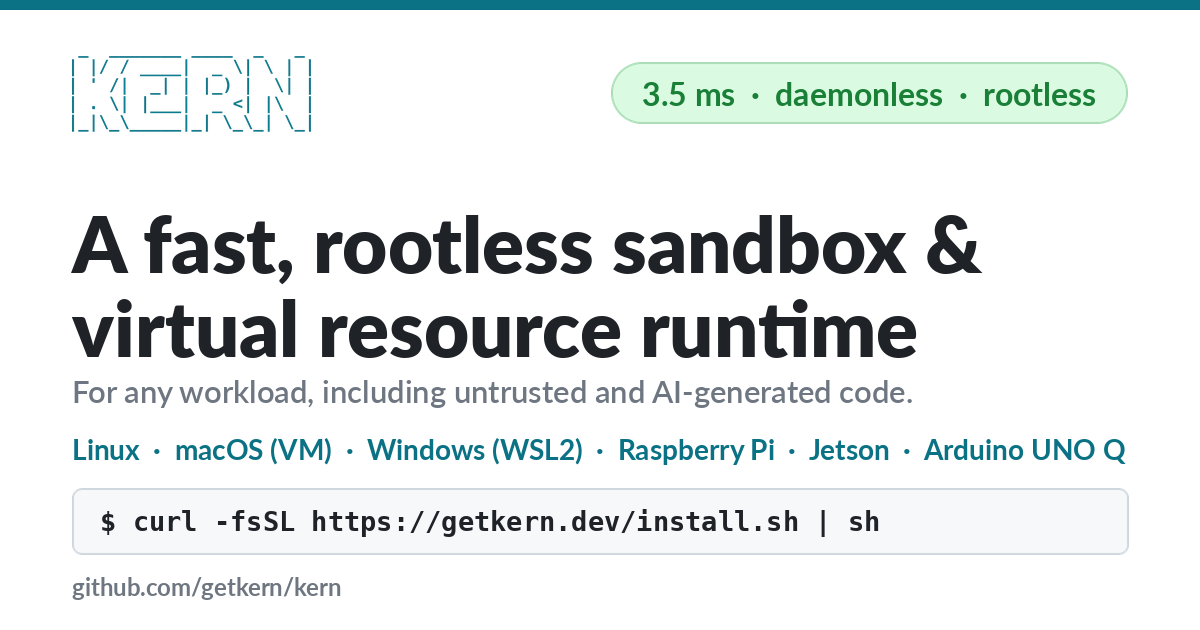
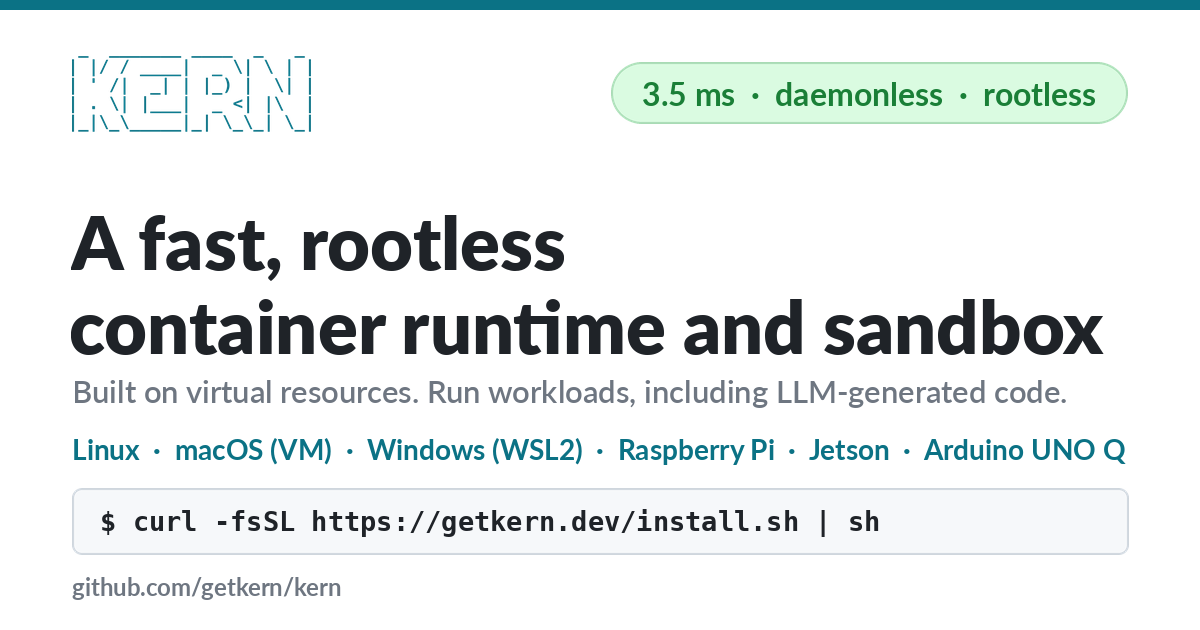
feat(assets): the social card has a source and a gate, after going stale twice
The card is what every share of this project renders on X, LinkedIn and Slack,
and it is the one surface no gate in this repository could read: stale-numbers.py
walks tracked .md files, and a claim baked into pixels is invisible to a text
gate. It has now outlived its own text twice. On 2026-09-07 it still said
"2.0 ms" while the site said 3.5 everywhere, so a screenshot of it carried two
different latencies in one image. Today it still said "For any workload, including
untrusted and AI-generated code" hours after both phrases had been removed from
the README, both blog posts, the repository description and the website, "any
workload" because this repository's own INSTALL.md and FAQ.md refute it and
"untrusted" because it promises more than a shared kernel gives. Neither time did
anything go red, and both times it was rebuilt by hand from a transcript because
there was no generator.

There is one now. `assets/make-og-card.py` holds the card's text as constants and
repaints three bands, copying the wordmark, the pill, the platform line, the
install command and the footer pixel for pixel out of the previous card: the
wordmark is custom lettering with no vector source here, so redrawing it would mean
approximating it. The typography was recovered rather than guessed, by rendering
candidates and scoring pixel overlap against the original ink aligned by bounding
box: Lato Black at 78 px scored 0.879 for the headline against 0.776 for the next
[…]

Changed region(s): [[0.0617, 0.3317, 0.925, 0.573], [0.0617, 0.6032, 0.8942, 0.6635]]

diff --git a/assets/make-og-card.py b/assets/make-og-card.py
@@ -1,0 +1,95 @@
+#!/usr/bin/env python3
+"""Regenerate the social card, because for two months it had no source and went stale twice.
+
+WHY THIS FILE EXISTS
+    `og-image.png` is what every share of this project on X, LinkedIn or Slack renders. It is also
+    the only surface no gate can read: `scripts/stale-numbers.py` walks tracked `.md` files, and a
+    claim baked into pixels is invisible to it. Twice now the card has outlived the text it quotes.
+    On 2026-09-07 it still said "2.0 ms - daemonless - ~1.6 MB" while the site said 3.5 ms
+    everywhere, and someone with a large following posted it, so their screenshot carried two
+    different latencies in one image. On 2026-09-20 it still said "For any workload, including
+    untrusted and AI-generated code" after BOTH of those phrases had been removed from every other
+    surface for being indefensible: "any workload" is refuted by this repository's own INSTALL.md
+    and FAQ.md, and "untrusted" promises more than a shared kernel gives.
+
+    Each time, the card was rebuilt by hand from a transcript, because there was no generator. This
+    is the generator. The strings below are the source of truth for what the card says, which is
+    what lets `scripts/og-card-matches-readme.py` compare them against the README's own first line.
+
+HOW IT WORKS, AND WHY IT STARTS FROM THE OLD PNG
+    It repaints three bands and copies everything else pixel for pixel: the wordmark, the pill, the
+    platform line, the install command and the footer are lifted from the existing card rather than
+    redrawn. The wordmark is a piece of custom lettering with no vector source in this tree, so
+    redrawing it would mean approximating it; copying it means it cannot drift.
+
+    The typography was not guessed. It was recovered from the existing PNG by rendering candidate
+    fonts and sizes and scoring the pixel overlap (intersection over union) against the original ink,
+    aligned by bounding box: Lato Black at 78 px scored 0.879 for the headline against 0.776 for the
+    next candidate, and Lato Semibold at 31 px scored 1.000 for the sub-line. The headline drops to
+    74 px here only because the new second line is wider than the space between the left margin and
+    the right edge of the install box at 78 px.
+
+USAGE
+    python3 assets/make-og-card.py <base.png> <out.png>
+
+    The output must be published under a NEW NAME. The card is served with
+    `cache-control: public, max-age=31536000, immutable`, so overwriting the old name does not
+    propagate; the deploy writes the same bytes to the old names as well, so that no URL already in
+    a cache serves a card that disagrees with this one.
+"""
+
+from __future__ import annotations
+
+import sys
+
+from PIL import Image, ImageDraw, ImageFont
+
+# WHAT THE CARD SAYS. These are checked against README.md by scripts/og-card-matches-readme.py, so a
+# tagline change that forgets the card turns a gate red instead of surviving in an image nobody reads.
+HEADLINE = ("A fast, rootless", "container runtime and sandbox")
+SUBLINE = "Built on virtual resources. Run workloads, including LLM-generated code."
+
+FONTS = "/usr/share/fonts/truetype/lato"
+INK = (31, 35, 40)  # the headline colour sampled from the original
+MUTED = (110, 118, 129)  # the sub-line colour sampled from the original
+
+# Where the ink STARTS in the original, not where the text origin is: the bands are matched by
+# bounding box so the new text sits on the same grid as the parts that were copied.
+LEFT = 71
+Y_LINE1, Y_LINE2, Y_SUB = 215, 299, 380
+BAND = (0, 200, 1200, 425)  # cleared before repainting: below the wordmark, above the platform line
+
+
+def _ink_bbox(img: Image.Image) -> tuple[int, int, int, int] | None:
+    return img.convert("L").point(lambda v: 255 if v < 200 else 0).getbbox()
+
+
+def draw_at(base: Image.Image, text: str, font: ImageFont.FreeTypeFont, xy: tuple[int, int], fill) -> None:
+    """Draw so that the INK lands at `xy`, whatever the font's internal side bearings are."""
+    scratch = Image.new("RGB", base.size, "white")
+    ImageDraw.Draw(scratch).text((0, 0), text, font=font, fill=fill)
+    box = _ink_bbox(scratch)
+    if box is None:
+        return
+    base.paste(scratch.crop(box), xy)
+
+
+def build(base_path: str, out_path: str) -> None:
+    card = Image.open(base_path).convert("RGB")
+    ImageDraw.Draw(card).rectangle(BAND, fill="white")
+
+    head = ImageFont.truetype(f"{FONTS}/Lato-Black.ttf", 74)
+    sub = ImageFont.truetype(f"{FONTS}/Lato-Semibold.ttf", 31)
+
+    draw_at(card, HEADLINE[0], head, (LEFT, Y_LINE1), INK)
+    draw_at(card, HEADLINE[1], head, (LEFT, Y_LINE2), INK)
+    draw_at(card, SUBLINE, sub, (LEFT + 4, Y_SUB), MUTED)
+
+    card.save(out_path, "PNG", optimize=True)
+    print(f"{out_path}: {card.size[0]}x{card.size[1]}")
+
+
+if __name__ == "__main__":
+    if len(sys.argv) != 3:
+        sys.exit(__doc__.strip().splitlines()[-1])
+    build(sys.argv[1], sys.argv[2])

diff --git a/scripts/og-card-matches-readme.py b/scripts/og-card-matches-readme.py
@@ -1,0 +1,101 @@
+#!/usr/bin/env python3
+"""Refuse a social card that says something the README stopped saying.
+
+WHY
+    The card (`og-image*.png`) is what every share of this project renders, and it is the one surface
+    no other gate can read: `stale-numbers.py` walks tracked `.md` files, and a claim baked into
+    pixels is invisible to a text gate. It has now gone stale twice. On 2026-09-07 it still quoted
+    "2.0 ms" while the site said 3.5 everywhere, and a screenshot of it carried two different
+    latencies in one image. On 2026-09-20 it still said "For any workload, including untrusted and
+    AI-generated code" after both phrases had been removed from every other surface for being
+    indefensible.
+
+    Neither time did anything go red. This is what goes red.
+
+WHAT IT CHECKS
+    `assets/make-og-card.py` holds the card's text as constants, so the picture has a readable
+    source. This compares those constants with README.md's first line and with the two phrases that
+    are banned from the first line anywhere:
+
+      1. the card's headline must be a substring of the README's opening sentence;
+      2. the card's sub-line must open with the README's own "built on ..." clause;
+      3. neither may contain an absolute ("any workload") or the word "untrusted", both of which were
+         removed from every surface on 2026-09-20 and must not come back through a picture.
+
+    It does NOT read the PNG. A pixel diff would fail on a re-render and tells you nothing about
+    truth; what matters is that the generator and the README agree, and that the deploy runs the
+    generator. Regenerating the image without re-reading this file is the one hole left, which is why
+    the generator is a script and not a paragraph in a commit message.
+
+Usage:  python3 scripts/og-card-matches-readme.py
+Exit:   0 clean, 1 if the card and the README disagree.
+"""
+
+from __future__ import annotations
+
+import pathlib
+import re
+import sys
+
+ROOT = pathlib.Path(__file__).resolve().parent.parent
+BANNED = ("any workload", "untrusted")
+
+
+def card_strings() -> tuple[str, str]:
+    src = (ROOT / "assets" / "make-og-card.py").read_text(encoding="utf-8")
+    head = re.search(r'HEADLINE\s*=\s*\("([^"]+)",\s*"([^"]+)"\)', src)
+    sub = re.search(r'SUBLINE\s*=\s*"([^"]+)"', src)
+    if not head or not sub:
+        sys.exit("og-card: cannot read HEADLINE/SUBLINE out of assets/make-og-card.py")
+    return f"{head.group(1)} {head.group(2)}", sub.group(1)
+
+
+def readme_lede() -> str:
+    for line in (ROOT / "README.md").read_text(encoding="utf-8").splitlines():
+        if line.startswith("**kern:**"):
+            return line
+    sys.exit("og-card: README.md has no line starting with **kern:**, the check cannot run")
+
+
+def main() -> int:
+    headline, subline = card_strings()
+    lede = readme_lede()
+    flat = re.sub(r"\*+", "", lede).lower()
+    problems: list[str] = []
+
+    if headline.lower() not in flat:
+        problems.append(
+            f"the card's headline is not in the README's first line.\n"
+            f"    card:   {headline}\n"
+            f"    README: {lede.strip()}"
+        )
+
+    clause = re.search(r"built on [a-z ]+?\.", flat)
+    if not clause:
+        problems.append("the README's first line no longer has a 'built on ...' clause for the card to echo")
+    elif not subline.lower().startswith(clause.group(0)):
+        problems.append(
+            f"the card's sub-line does not open with the README's own clause.\n"
+            f"    card:   {subline}\n"
+            f"    README: {clause.group(0)}"
+        )
+
+    for phrase in BANNED:
+        for where, text in (("headline", headline), ("sub-line", subline)):
+            if phrase in text.lower():
+                problems.append(f"the card's {where} contains {phrase!r}, removed from every surface on 2026-09-20")
+
+    for p in problems:
+        print(f"og-card: {p}")
+    if problems:
+        print(
+            "\n       the card is an image, so nothing else can see this. Edit assets/make-og-card.py,\n"
+            "       re-run it, and publish under a NEW name: the old one is cached immutable for a year."
+        )
+        return 1
+    print("og-card: the card's text agrees with the README's first line")
+    return 0
+
+
+if __name__ == "__main__":
+    raise SystemExit(main())

diff --git a/scripts/gates-selftest.py b/scripts/gates-selftest.py
@@ -99,6 +99,18 @@ CASES: list[Case] = [
      lambda t: t + "\n# " + DASH + "\n"),
     ("no-ai-slop", "an em-dash in a manifest", "Cargo.toml",
      lambda t: t + "\n# " + DASH + "\n"),
+    # --- og-card-matches-readme: the card is a PNG, so nothing else in this repo can read it ---
+    # Three shapes, because the card went stale in two different ways and could go stale in a third:
+    # the README moves and the picture does not, the picture moves and the README does not, and a
+    # phrase banned from every surface comes back through an image where no text gate looks.
+    ("og-card-matches-readme", "the README's first line moves and the card does not", "README.md",
+     lambda t: t.replace("container runtime and sandbox", "virtual resource runtime", 1)),
+    ("og-card-matches-readme", "the card's headline moves and the README does not",
+     "assets/make-og-card.py",
+     lambda t: t.replace('"container runtime and sandbox"', '"resource slicer"', 1)),
+    ("og-card-matches-readme", "a banned absolute comes back inside the picture",
+     "assets/make-og-card.py",
+     lambda t: t.replace("Run workloads,", "For any workload,", 1)),
     # --- progress-is-tty-gated: both crates, and the multi-line shape that escaped the manual pass ---
     ("progress-is-tty-gated", "a bare eprintln! progress line", "crates/kern-oci/src/pull.rs",
      lambda t: t + '\nfn _selftest() { eprintln!("\u2192 pulling something"); }\n'),

diff --git a/scripts/build-guide.py b/scripts/build-guide.py
@@ -144,7 +144,7 @@ def render(md_path: pathlib.Path, title: str, nav: str, token: str = "") -> str:
 <meta property="og:url" content="{SITE}{BASE}/{page}">
 <meta property="og:title" content="{html.escape(title)}">
 <meta property="og:description" content="{desc}">
-<meta property="og:image" content="{SITE}/og-image-v3.png">
+<meta property="og:image" content="{SITE}/og-image-v4.png">
 <style>{CSS}</style>
 </head>
 <body>
